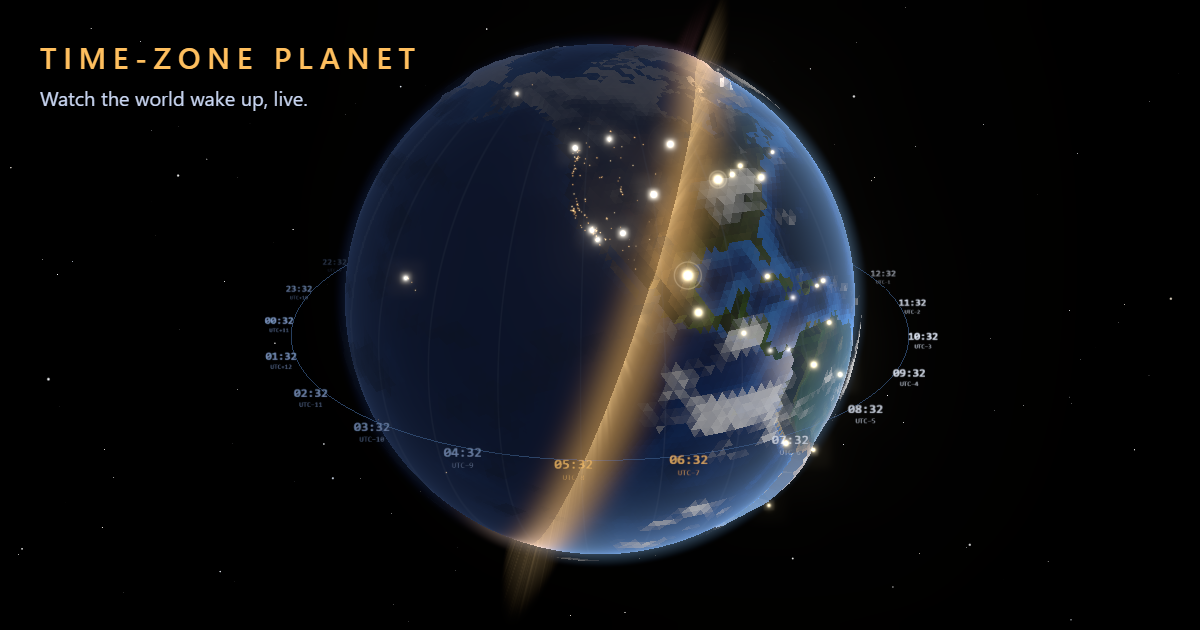
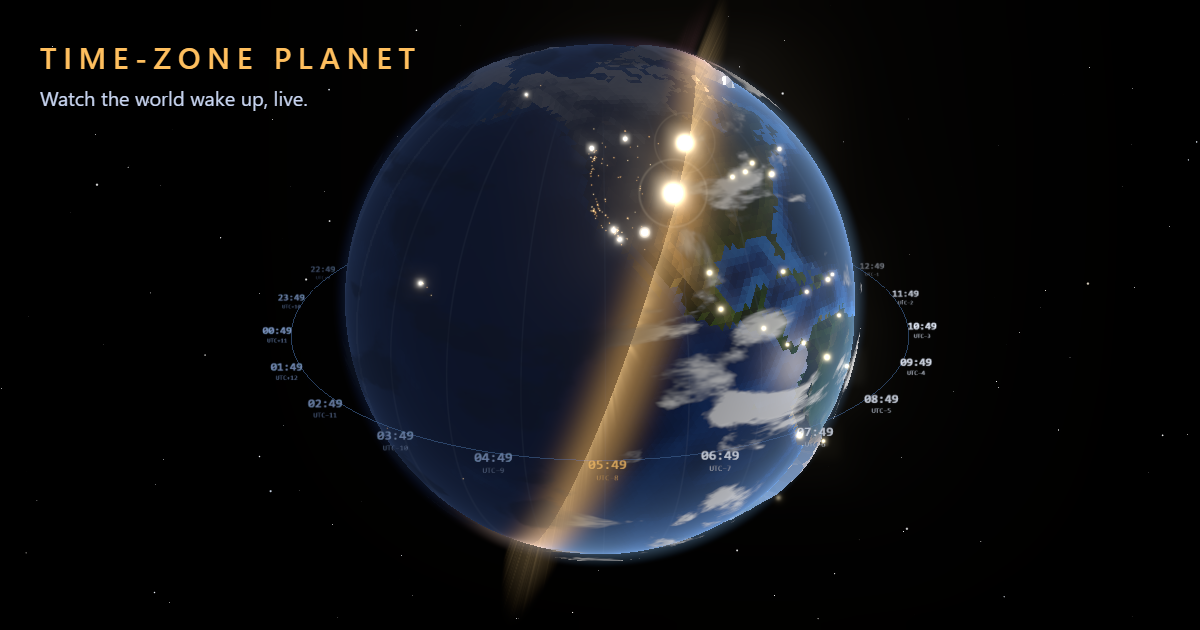
Soft per-pixel clouds instead of faceted ones

diff --git a/src/globe.js b/src/globe.js
@@ -21,7 +21,8 @@ const DAWN_GLSL = /* glsl */ `
   }
 `;
 
-export async function createGlobe(scene, landUrl) {
+/** opts.lowDetail: cheaper clouds (touch devices). */
+export async function createGlobe(scene, landUrl, opts = {}) {
   const data = await (await fetch(landUrl)).json();
   const heights = base64ToBytes(data.heights);
   const codes = base64ToBytes(data.faces);
@@ -196,7 +197,7 @@ export async function createGlobe(scene, landUrl) {
   scene.add(mesh);
 
   // --- Clouds: a faceted shell just above the lowlands (high plateaus poke through, as they do) ---
-  const clouds = makeClouds(uniforms);
+  const clouds = makeClouds(uniforms, !!opts.lowDetail);
   scene.add(clouds);
 
   // --- Atmosphere halo: the inside of a slightly bigger sphere, bright at the limb ---
@@ -396,79 +397,82 @@ function makeStars() {
   return new THREE.Points(g, m);
 }
 
-// Clouds are worked out per face of their own coarser icosphere, so they're faceted like the land. Cover follows the
-// real climate bands: a cloudy belt near the equator, clear subtropics (the big deserts), stormy mid-latitudes.
-// Features are squashed north-south so they stretch along the winds, and drift slowly east while they change shape.
-function makeClouds(uniforms) {
+// Clouds: a smooth shell just above the lowlands (high plateaus poke through, as they do). Cover is worked out per
+// pixel, so edges are soft and wispy rather than triangle-shaped. It follows the real climate bands: a cloudy belt
+// near the equator, clear subtropics (the big deserts), stormy mid-latitudes. Features are squashed north-south so
+// they stretch along the winds, gently warped so they curl, and drift slowly east while they change shape.
+function makeClouds(uniforms, lowDetail) {
   const R = 1.026;
-  const { positions: P, faces: F } = icosphere(36);
-  const nf = F.length / 3;
-  const pos = new Float32Array(nf * 9), centre = new Float32Array(nf * 9);
-  for (let f = 0; f < nf; f++) {
-    let cx = 0, cy = 0, cz = 0;
-    for (let k = 0; k < 3; k++) { const v = F[f * 3 + k]; cx += P[v * 3]; cy += P[v * 3 + 1]; cz += P[v * 3 + 2]; }
-    const l = Math.hypot(cx, cy, cz);
-    for (let k = 0; k < 3; k++) {
-      const v = F[f * 3 + k];
-      pos.set([P[v * 3] * R, P[v * 3 + 1] * R, P[v * 3 + 2] * R], f * 9 + k * 3);
-      centre.set([cx / l, cy / l, cz / l], f * 9 + k * 3);
-    }
-  }
-  const g = new THREE.BufferGeometry();
-  g.setAttribute('position', new THREE.BufferAttribute(pos, 3));
-  g.setAttribute('aCentre', new THREE.BufferAttribute(centre, 3));
-  g.computeVertexNormals();
+  const g = new THREE.SphereGeometry(R, 160, 112);
   const m = new THREE.ShaderMaterial({
     uniforms,
+    // Phones: 3 noise octaves instead of 5 and no light-and-shade pass, roughly half the per-pixel cost.
+    defines: lowDetail ? { CLOUD_LOW: '' } : {},
     transparent: true,
     depthWrite: false,
     vertexShader: /* glsl */ `
-      attribute vec3 aCentre;
-      uniform float uTime;
-      varying float vCover; varying float vThick; varying vec3 vN; varying vec3 vP;
+      varying vec3 vP;
+      void main() {
+        vP = position;
+        gl_Position = projectionMatrix * modelViewMatrix * vec4(position, 1.0);
+      }`,
+    fragmentShader: /* glsl */ `
+      uniform vec3 uSun; uniform float uTime;
+      varying vec3 vP;
+      ${DAWN_GLSL}
       float hash(vec3 p) { p = fract(p * 0.3183099 + 0.1); p *= 17.0; return fract(p.x * p.y * p.z * (p.x + p.y + p.z)); }
       float noise(vec3 x) {
         vec3 i = floor(x), f = fract(x); f = f * f * (3.0 - 2.0 * f);
         return mix(mix(mix(hash(i), hash(i + vec3(1, 0, 0)), f.x), mix(hash(i + vec3(0, 1, 0)), hash(i + vec3(1, 1, 0)), f.x), f.y),
                    mix(mix(hash(i + vec3(0, 0, 1)), hash(i + vec3(1, 0, 1)), f.x), mix(hash(i + vec3(0, 1, 1)), hash(i + vec3(1, 1, 1)), f.x), f.y), f.z);
       }
-      float fbm(vec3 p) { float a = 0.5, s = 0.0; for (int i = 0; i < 5; i++) { s += a * noise(p); p = p * 2.07 + vec3(1.7, 9.2, 3.1); a *= 0.5; } return s; }
-      void main() {
-        vec3 c = aCentre;
+      float fbm5(vec3 p) { float a = 0.5, s = 0.0; for (int i = 0; i < 5; i++) { s += a * noise(p); p = p * 2.07 + vec3(1.7, 9.2, 3.1); a *= 0.5; } return s; }
+      float fbm3(vec3 p) { float a = 0.5, s = 0.0; for (int i = 0; i < 3; i++) { s += a * noise(p); p = p * 2.07 + vec3(1.7, 9.2, 3.1); a *= 0.5; } return s + 0.047; } // + the octaves it skips, on average
+
+      // How much cloud at unit vector c: 0 clear .. 1 thick. 'detail' picks the full or the cheap noise.
+      float cloudAt(vec3 c, bool detail) {
         float lat = asin(clamp(c.y, -1.0, 1.0)) * 57.29578, al = abs(lat);
-        // Slow eastward drift plus slow change of shape.
-        float a = uTime * 0.004;
+        float a = uTime * 0.004; // slow eastward drift
         vec3 q = vec3(c.x * cos(a) - c.z * sin(a), c.y, c.x * sin(a) + c.z * cos(a));
-        float n = fbm(vec3(q.x * 4.2, q.y * 8.0, q.z * 4.2) + vec3(0.0, 0.0, uTime * 0.006));
+        vec3 sp = vec3(q.x * 4.2, q.y * 8.0, q.z * 4.2) + vec3(0.0, 0.0, uTime * 0.006);
+        // Warp the lookup by a coarse noise so shapes curl and streak instead of forming round blobs.
+        sp += (vec3(noise(sp * 0.7 + 3.1), noise(sp * 0.7 + 7.7), noise(sp * 0.7 + 1.3)) - 0.5) * 0.9;
+      #ifdef CLOUD_LOW
+        float n = fbm3(sp);
+      #else
+        float n = detail ? fbm5(sp) : fbm3(sp);
+      #endif
         // Threshold on the noise: lower = more cloud. fbm is ~0.47 ± 0.1, so 0.5 ≈ 40% cover, 0.57 ≈ 15%.
         float t = 0.55
           - 0.045 * exp(-pow(lat / 9.0, 2.0))           // tropical rain belt
           + 0.05 * exp(-pow((al - 23.0) / 8.0, 2.0))    // dry subtropics
           - 0.06 * exp(-pow((al - 55.0) / 11.0, 2.0))   // mid-latitude storm tracks
           + 0.05 * smoothstep(70.0, 88.0, al);          // dry polar air
-        // Soft edges: thin and translucent at the fringe, thick in the middle, plus a little per-face variety.
-        float body = smoothstep(t - 0.01, t + 0.13, n);
-        vCover = body * (0.75 + 0.25 * hash(c * 91.7)) * 0.88;
-        vThick = body;
-        vN = normal; vP = position;
-        gl_Position = vCover < 0.01 ? vec4(2.0, 2.0, 2.0, 1.0) : projectionMatrix * modelViewMatrix * vec4(position, 1.0);
-      }`,
-    fragmentShader: /* glsl */ `
-      uniform vec3 uSun;
-      varying float vCover; varying float vThick; varying vec3 vN; varying vec3 vP;
-      ${DAWN_GLSL}
+        return smoothstep(t - 0.015, t + 0.11, n);
+      }
+
       void main() {
-        vec3 p = normalize(vP), n = normalize(vN);
+        vec3 p = normalize(vP);
+        float body = cloudAt(p, true);
+        if (body < 0.004) discard;
         float s, morning; dawnInfo(p, uSun, s, morning);
         float day = smoothstep(-0.12, 0.1, s);
-        float diff = max(dot(n, uSun), 0.0);
-        // Thin cloud edges are greyer and let more light through; thick cores are bright white.
-        vec3 col = mix(vec3(0.78, 0.82, 0.9), vec3(1.0), vThick) * (0.2 + 0.8 * diff);
+        float diff = clamp(dot(p, uSun) * 0.9 + 0.1, 0.0, 1.0);
+        // Light and shade: compare with the cloud a little toward the sun. Sun-facing edges are bright, the far sides
+        // of thick clouds fall into their own shadow.
+      #ifdef CLOUD_LOW
+        float relief = 0.0;
+      #else
+        float toward = cloudAt(normalize(p + uSun * 0.014), false);
+        float relief = clamp((body - toward) * 1.6, -1.0, 1.0);
+      #endif
+        // Thin wisps are greyer and let light through; thick cores are bright white.
+        vec3 col = mix(vec3(0.74, 0.79, 0.88), vec3(1.0), body) * (0.2 + 0.8 * diff) * (0.9 + 0.22 * relief);
         float band = exp(-pow((s - 0.02) / 0.09, 2.0));
         float dawnSide = smoothstep(-0.15, 0.35, morning);
         col = mix(col, col * mix(vec3(1.0, 0.45, 0.4), vec3(1.0, 0.68, 0.3), dawnSide) * 1.5, band * 0.75);
         col = mix(vec3(0.0035, 0.0055, 0.011), col, day); // at night: about as dark as the ground below
-        float a = vCover * mix(0.45, 0.78, day); // night clouds are dim but still veil the city lights
+        float a = body * 0.88 * mix(0.45, 0.8, day);       // night clouds are dim but still veil the city lights
         gl_FragColor = vec4(col, a);
         #include <colorspace_fragment>
         // Premultiply after the colour-space conversion: before it, dark night clouds come out brighter than the

diff --git a/src/main.js b/src/main.js
@@ -316,7 +316,7 @@ function showTipAt(x, y, touch) {
 // --- boot ---
 let globe;
 try {
-  globe = await createGlobe(scene, 'globe/land.json');
+  globe = await createGlobe(scene, 'globe/land.json', { lowDetail: coarse });
 } catch (err) {
   loading.textContent = 'Could not load the planet. Try reloading the page.';
   loading.classList.add('error');
